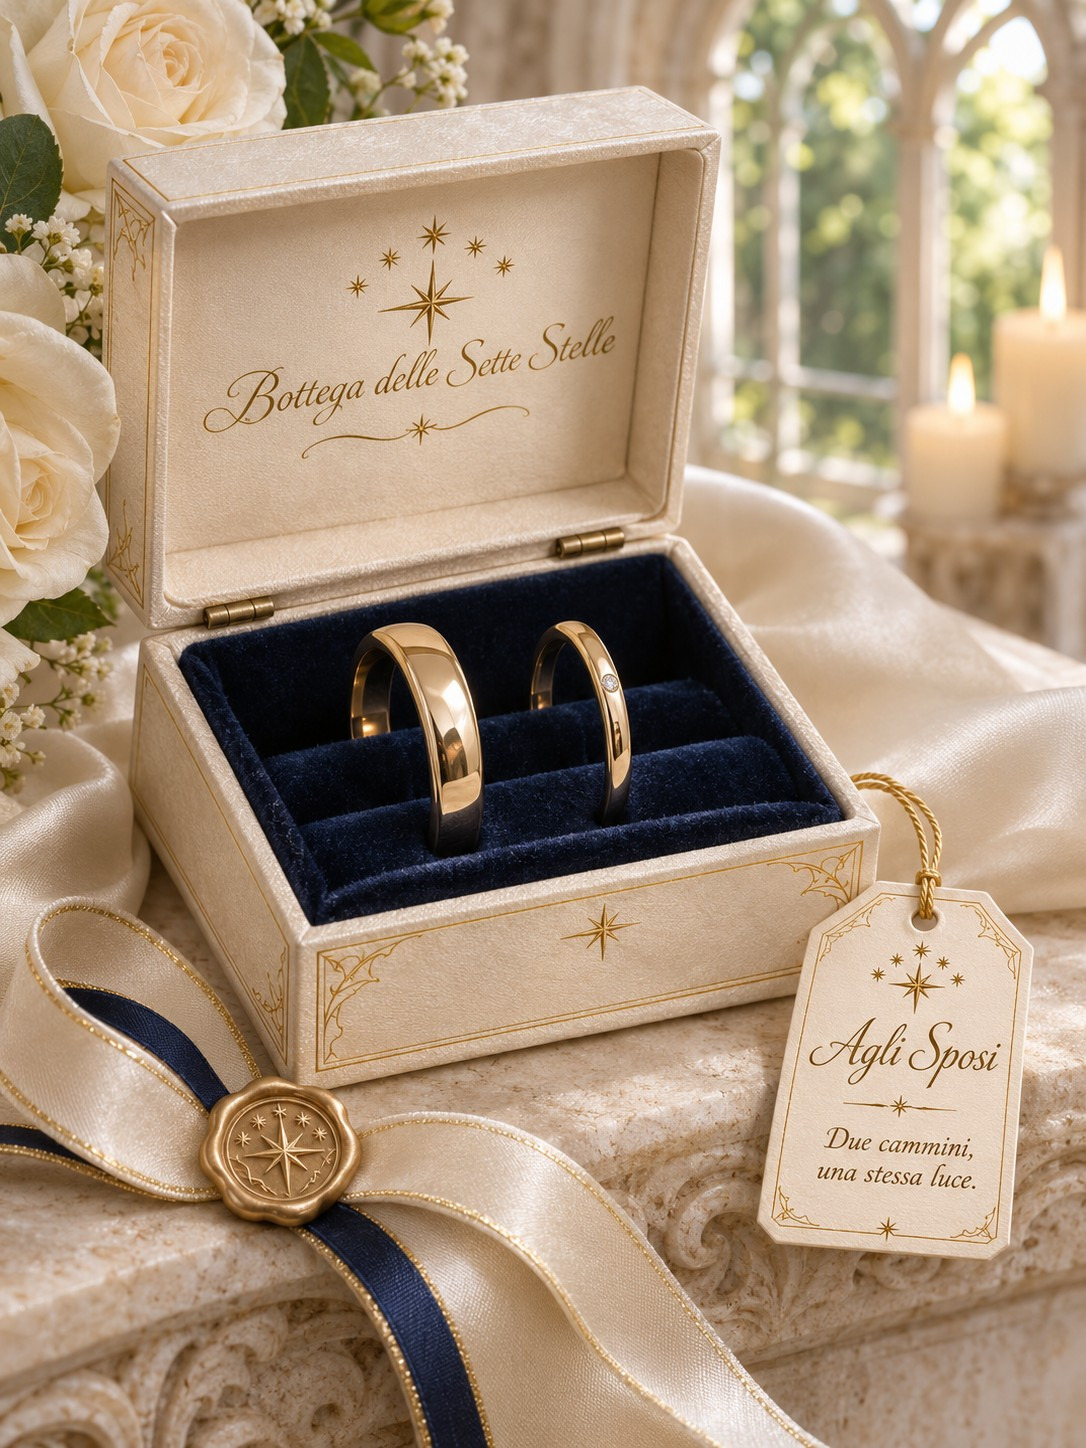
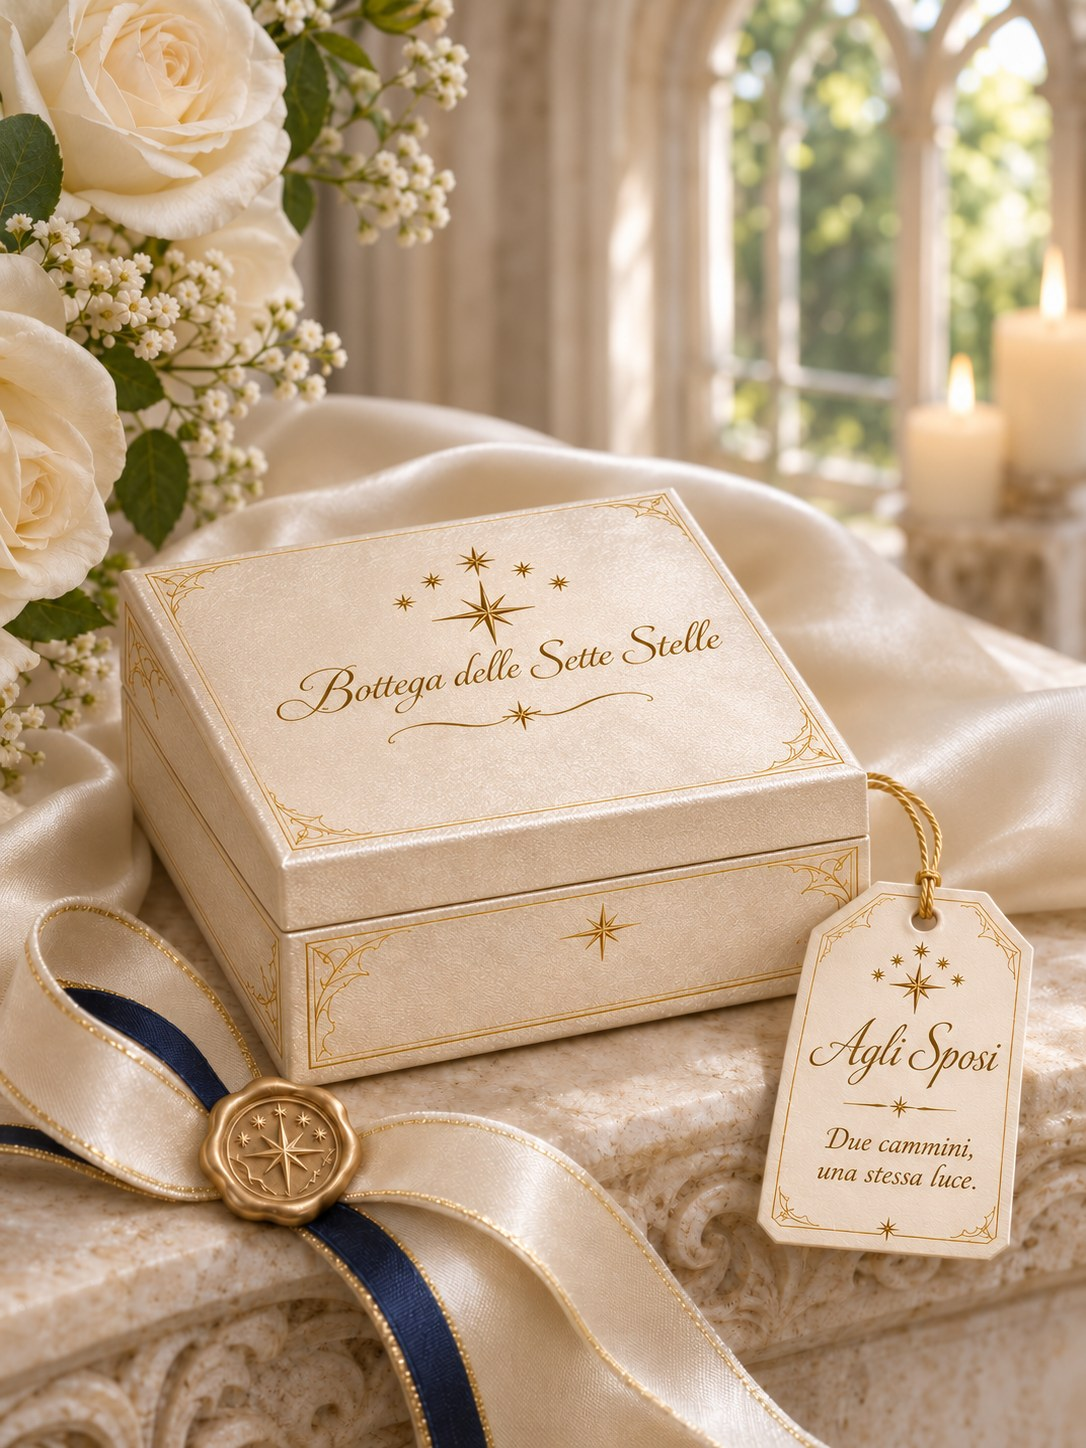
Certificati: nuova foto della confezione degli sposi (scatola chiusa)
Claude-Session: https://claude.ai/code/session_01Dpy6oSBt68g9x9NqF23KrX

diff --git a/certificati/c.html b/certificati/c.html
@@ -159,7 +159,7 @@ function certificatoHTML(q){
   const ric = p.recipe.concat(conf ? [[1, "Confezione"]] : []);
   const et = `N° ${q.n}`, chi = q.s === "m" ? ["Nériva (Madelyn)", "la bottegaia", "madelyn"] : ["Elrohir", "il bottegaio", "elrohir"];
   const extra = [];
-  if(nozze) extra.push(`<div class="box"><img src="../img/confezione-nozze.jpg" alt="La confezione degli sposi: scrigno avorio con fregi e stelle d'oro, interno di velluto blu notte, nastro avorio e blu con sigillo d'oro e cartellino «Agli Sposi · Due cammini, una stessa luce»"><span class="lbl">Confezione degli sposi</span></div>`);
+  if(nozze) extra.push(`<div class="box"><img src="../img/confezione-nozze.jpg?v=20261105" alt="La confezione degli sposi: scatola avorio con fregi e stelle d'oro e la scritta «Bottega delle Sette Stelle», nastro avorio e blu con sigillo d'oro e cartellino «Agli Sposi · Due cammini, una stessa luce»"><span class="lbl">Confezione degli sposi</span></div>`);
   else if(conf) extra.push(`<div class="box"><img src="../img/${ded ? "confezione.jpg" : "confezione-semplice.jpg"}" alt="La confezione della bottega: scatola color pergamena con fregi d'oro, nastro di velluto blu e sigillo d'oro"><span class="lbl">Confezione</span></div>`);
   if(ded){ const n = ded.length, fs = n <= 60 ? 5.6 : n <= 110 ? 4.7 : n <= 170 ? 3.9 : 3.3;
     extra.push(`<div class="tag" role="img" aria-label="Cartoncino della dedica"><div class="tag-text" style="--fs:${fs}cqw"><span class="lbl">Dedica</span><p class="msg">«${esc(ded)}»</p>${firma ? `<span class="from">${esc(firma)}</span>` : ""}</div></div>`); }

diff --git a/certificati/esempio-sposi.html b/certificati/esempio-sposi.html
@@ -169,7 +169,7 @@ dd{margin:0;font-size:1.08rem}
     </div>
   </section>
   <section class="extras one"><div class="box">
-      <img src="../img/confezione-nozze.jpg" alt="La confezione degli sposi: scrigno avorio con fregi e stelle d'oro, interno di velluto blu notte, nastro avorio e blu con sigillo d'oro e cartellino «Agli Sposi · Due cammini, una stessa luce»">
+      <img src="../img/confezione-nozze.jpg?v=20261105" alt="La confezione degli sposi: scatola avorio con fregi e stelle d'oro e la scritta «Bottega delle Sette Stelle», nastro avorio e blu con sigillo d'oro e cartellino «Agli Sposi · Due cammini, una stessa luce»">
       <span class="lbl">Confezione degli sposi</span>
     </div></section>
   <footer class="foot">

diff --git a/strumenti/modulo_certificati.py b/strumenti/modulo_certificati.py
@@ -36,7 +36,7 @@ function certificatoHTML(q){
   const ric = p.recipe.concat(conf ? [[1, "Confezione"]] : []);
   const et = `N° ${q.n}`, chi = q.s === "m" ? ["Nériva (Madelyn)", "la bottegaia", "madelyn"] : ["Elrohir", "il bottegaio", "elrohir"];
   const extra = [];
-  if(nozze) extra.push(`<div class="box"><img src="../img/confezione-nozze.jpg" alt="La confezione degli sposi: scrigno avorio con fregi e stelle d'oro, interno di velluto blu notte, nastro avorio e blu con sigillo d'oro e cartellino «Agli Sposi · Due cammini, una stessa luce»"><span class="lbl">Confezione degli sposi</span></div>`);
+  if(nozze) extra.push(`<div class="box"><img src="../img/confezione-nozze.jpg?v=20261105" alt="La confezione degli sposi: scatola avorio con fregi e stelle d'oro e la scritta «Bottega delle Sette Stelle», nastro avorio e blu con sigillo d'oro e cartellino «Agli Sposi · Due cammini, una stessa luce»"><span class="lbl">Confezione degli sposi</span></div>`);
   else if(conf) extra.push(`<div class="box"><img src="../img/${ded ? "confezione.jpg" : "confezione-semplice.jpg"}" alt="La confezione della bottega: scatola color pergamena con fregi d'oro, nastro di velluto blu e sigillo d'oro"><span class="lbl">Confezione</span></div>`);
   if(ded){ const n = ded.length, fs = n <= 60 ? 5.6 : n <= 110 ? 4.7 : n <= 170 ? 3.9 : 3.3;
     extra.push(`<div class="tag" role="img" aria-label="Cartoncino della dedica"><div class="tag-text" style="--fs:${fs}cqw"><span class="lbl">Dedica</span><p class="msg">«${esc(ded)}»</p>${firma ? `<span class="from">${esc(firma)}</span>` : ""}</div></div>`); }

diff --git a/strumenti/certificato.py b/strumenti/certificato.py
@@ -87,7 +87,7 @@ def pagina(numero, pezzo, info, intestato, anno, mese, giorno, confezione, esemp
     extra = []
     if confezione and not dono and nozze:
         extra.append("""<div class="box">
-      <img src="../img/confezione-nozze.jpg" alt="La confezione degli sposi: scrigno avorio con fregi e stelle d'oro, interno di velluto blu notte, nastro avorio e blu con sigillo d'oro e cartellino «Agli Sposi · Due cammini, una stessa luce»">
+      <img src="../img/confezione-nozze.jpg?v=20261105" alt="La confezione degli sposi: scatola avorio con fregi e stelle d'oro e la scritta «Bottega delle Sette Stelle», nastro avorio e blu con sigillo d'oro e cartellino «Agli Sposi · Due cammini, una stessa luce»">
       <span class="lbl">Confezione degli sposi</span>
     </div>""")
     elif confezione and not dono:
